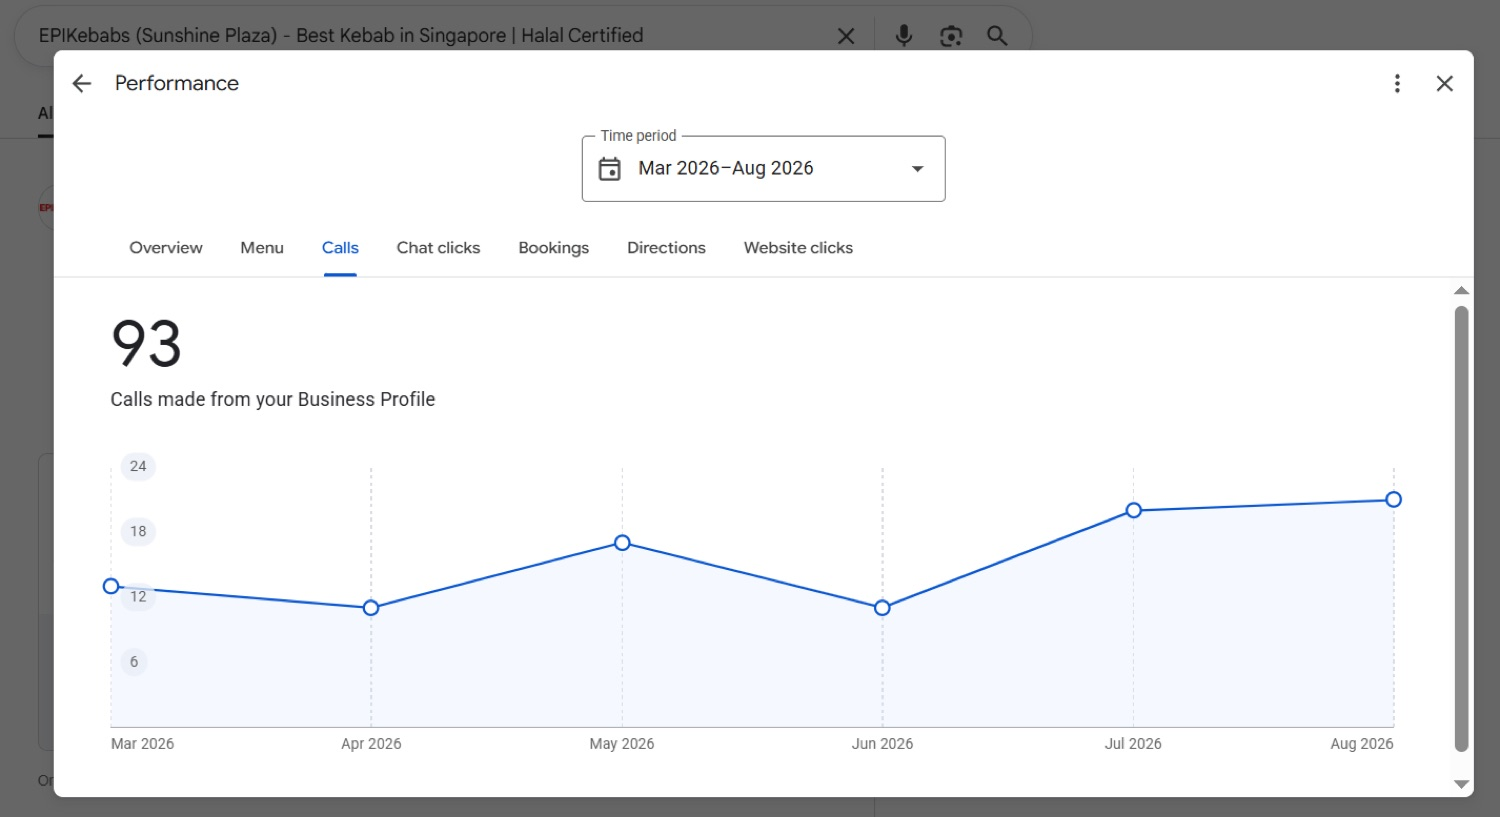
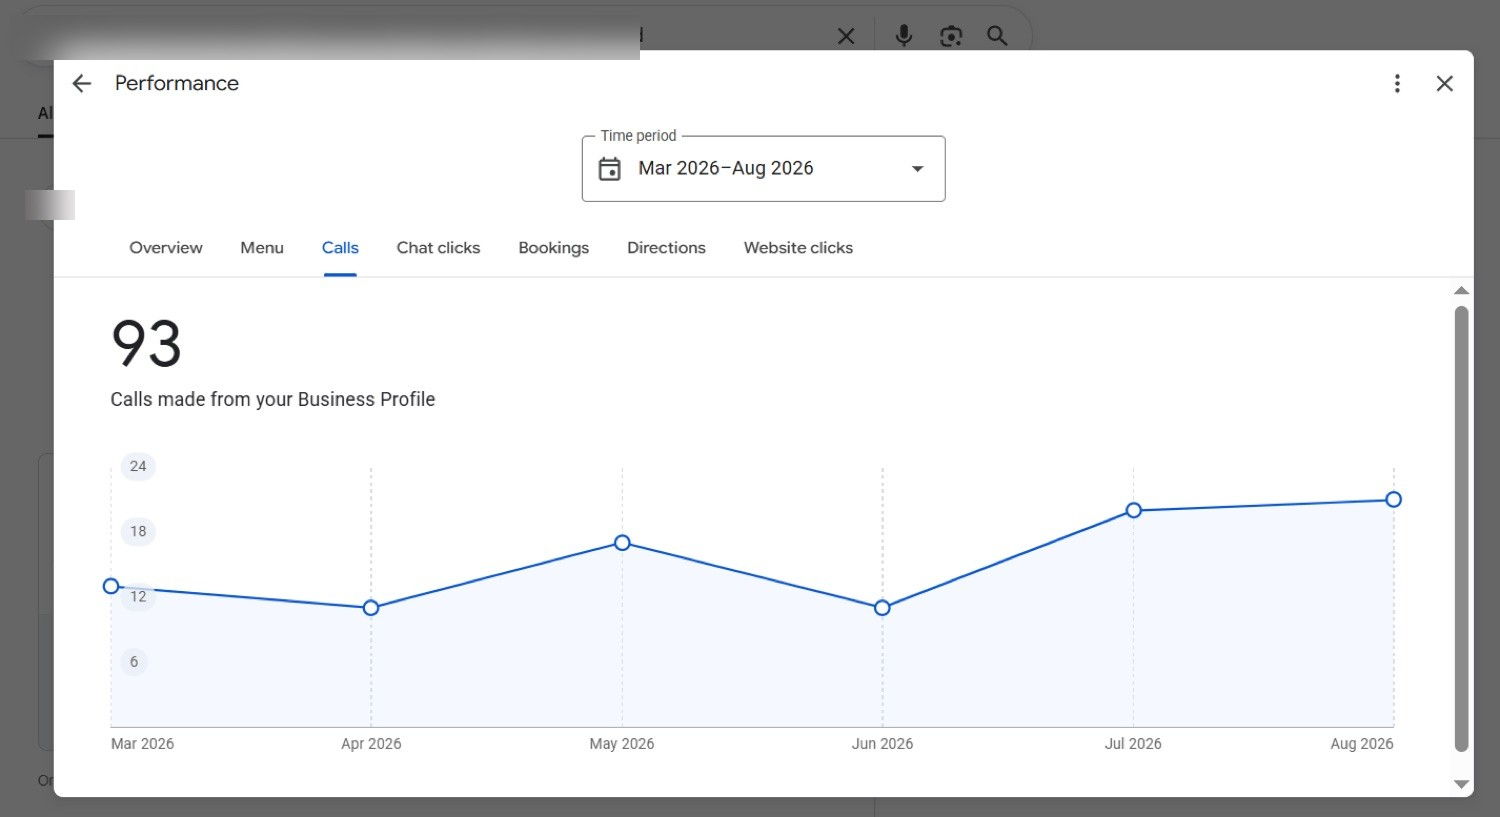
fix(case-studies): blur brand name and outlet addresses in screenshots
Client asked for the screenshots themselves to be anonymized, not
just the page copy. Blurs every visible mention of the brand name,
plus outlet mall names and street addresses, across the 7 screenshots
that showed them: both AI Overview citations, the GA4 account header,
the Map Pack listing titles/addresses, and the browser title bar
behind each of the 3 GBP performance dashboards. Competitor listings
in the same screenshots are untouched. The 2 GSC chart screenshots
never showed the name and needed no changes.

Also drops the "(anonymised at client's request)" aside from the At a
Glance table per feedback — the client field now just reads "A
Singapore restaurant chain."

Changed region(s): [[0.0307, 0.0306, 0.4293, 0.0918], [0.0, 0.2142, 0.0613, 0.2754]]

diff --git a/app/case-studies/multi-outlet-restaurant-seo-case-study-singapore/page.tsx b/app/case-studies/multi-outlet-restaurant-seo-case-study-singapore/page.tsx
@@ -77,7 +77,7 @@ const HERO_STATS = [
 ];
 
 const AT_A_GLANCE: { label: string; value: string }[] = [
-  { label: "Client", value: "A Singapore restaurant chain (anonymised at client's request)" },
+  { label: "Client", value: "A Singapore restaurant chain" },
   { label: "Industry", value: "F&B / Quick Service Restaurant (Halal, MUIS-certified)" },
   { label: "Locations", value: "5 outlets across Singapore" },
   { label: "Engagement", value: "March 2026 – ongoing" },
